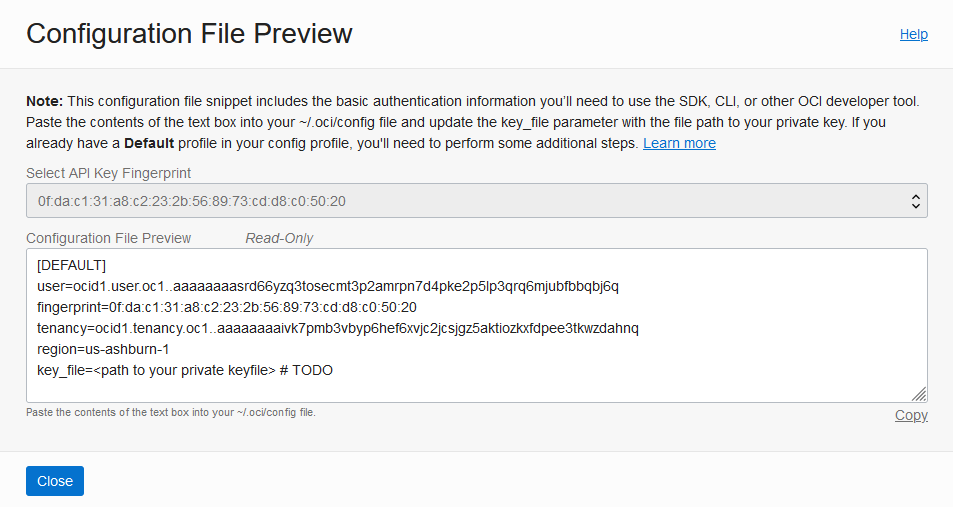
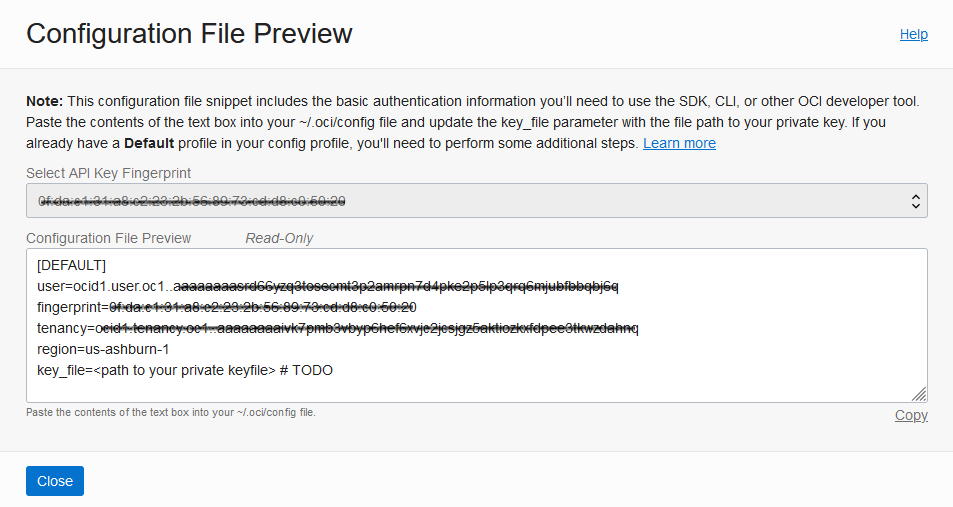
WMS ID: 11620 - correction and text alignment (#164)
correction and text alignment

Hiding private information in images

Changed region(s): [[0.0913, 0.5621, 0.6695, 0.6509], [0.0304, 0.3846, 0.3652, 0.4142]]

diff --git a/plsql-rag-23ai/lab0/lab0.md b/plsql-rag-23ai/lab0/lab0.md
@@ -4,6 +4,8 @@
 
 In this lab you will setup access from ADB to OCI GenAI service.
 
+Oracle's GenAI service is an LLM service from Oracle Cloud Infrastructure (OCI). The OCI GenAI service provides access to several LLMs that you can pick from.  To enable client applications to access these services, authentication is required. This is accomplished through public and private api keys. The public key is created in the user cloud account, while the corresponding private key is stored on the server where the application runs. 
+
 *Estimated Lab Time*: 10 minutes
 
 ### Objectives:
@@ -11,10 +13,6 @@ In this lab you will setup access from ADB to OCI GenAI service.
 
 ### Prerequisites:
 * You need an Oracle Cloud tenancy and the ability to grant privileges to groups
-
-
-## **Introduction** 
-Oracle's GenAI service is an LLM service from Oracle Cloud Infrastructure (OCI). The OCI GenAI service provides access to several LLMs that you can pick from.  To enable client applications to access these services, authentication is required. This is accomplished through public and private api keys. The public key is created in the user cloud account, while the corresponding private key is stored on the server where the application runs. 
 
 ## **Task 1:** Get your credential information to access OCI APIs
 ### Fingerprint and private key
@@ -39,7 +37,7 @@ Oracle's GenAI service is an LLM service from Oracle Cloud Infrastructure (OCI).
 
   ![](images/add-api-key-dialog2.png " ")
 
-1. Click the **Add** button in the **Add API Key** dialog. The *Configuration File Preview* dialog opens. Follow the instructions in the **Note** to copy the contents of the text box into a file.
+6. Click the **Add** button in the **Add API Key** dialog. The *Configuration File Preview* dialog opens. Follow the instructions in the **Note** to copy the contents of the text box into a file.
    
   ![](images/api-configfilepreview.png " ")
 
@@ -88,30 +86,30 @@ Note: This policy allows any database in the specified compartment to access OCI
 2. Change directory to /home/oracle/AIdemo
 3. Using an editor such as vi, edit and replace the credential information below with your information in the file create_credential.sql:
    
-   user\_ocid
-   tenancy\_ocid
-   compartment_ocid
-   private\_key - Important Note: Put the private key all on a single line.
-   fingerprint
+   * user\_ocid
+   * tenancy\_ocid
+   * compartment_ocid
+   * private\_key - *(Important Note: Put the private key all on a single line.)*
+   * fingerprint
 
-```
-<copy>
-declare
-  jo json_object_t;
-begin
-  jo := json_object_t();
-  jo.put('user_ocid','ocid1.user.oc1..aabbalbbaa1112233aabb...');
-  jo.put('tenancy_ocid','ocid1.tenancy.oc1..aaaaalbbbb1112233aaaab...');
-  jo.put('compartment_ocid','ocid1.compartment.oc1..ababalabab1112233ababa...');
-  jo.put('private_key','AAAaaaBBB11112222333...AAA111AAABBB222aaa1a...');
-  jo.put('fingerprint','01:1a:a1:aa:12:a1:12:1a:ab:12:01:ab:...');
-  dbms_vector.create_credential(
-    credential_name   => 'GENAI_CRED',
-    params            => json(jo.to_string));
-end;
-/
-</copy>
-```
+    ```
+    <copy>
+    declare
+      jo json_object_t;
+    begin
+      jo := json_object_t();
+      jo.put('user_ocid','ocid1.user.oc1..aabbalbbaa1112233aabb...');
+      jo.put('tenancy_ocid','ocid1.tenancy.oc1..aaaaalbbbb1112233aaaab...');
+      jo.put('compartment_ocid','ocid1.compartment.oc1..ababalabab1112233ababa...');
+      jo.put('private_key','AAAaaaBBB11112222333...AAA111AAABBB222aaa1a...');
+      jo.put('fingerprint','01:1a:a1:aa:12:a1:12:1a:ab:12:01:ab:...');
+      dbms_vector.create_credential(
+        credential_name   => 'GENAI_CRED',
+        params            => json(jo.to_string));
+    end;
+    /
+    </copy>
+    ```
 4. Go to /home/oracle/AIdemo
 5. sqlplus vector/vector@freepdb1
 6. SQL> @dropcred.sql

diff --git a/plsql-rag-23ai/prepare-setup/prepare-setup.md b/plsql-rag-23ai/prepare-setup/prepare-setup.md
@@ -1,7 +1,7 @@
 # Prepare Setup
 
 ## Introduction
-This lab will show you how to download the Oracle Resource Manager (ORM) stack zip file needed to setup the resource needed to run this workshop. This workshop requires a compute instance running the *Oracle Database 19c on LiveLabs* Marketplace image and a Virtual Cloud Network (VCN).
+This lab will show you how to download the Oracle Resource Manager (ORM) stack zip file needed to setup the resource needed to run this workshop. This workshop requires a compute instance running the *Oracle Database 23ai on LiveLabs* Marketplace image and a Virtual Cloud Network (VCN).
 
 *Estimated Lab Time:* 10 minutes
 
@@ -48,4 +48,4 @@ You may now [proceed to the next lab](#next).
 ## Acknowledgements
 * **Author** - Rene Fontcha, LiveLabs Platform Lead, NA Technology
 * **Contributors** - Meghana Banka
-* **Last Updated By/Date** - Rene Fontcha, LiveLabs Platform Lead, NA Technology, October 2021
+* **Last Updated By/Date** - Rajeev Rumale, Database Product Management, August 2024
